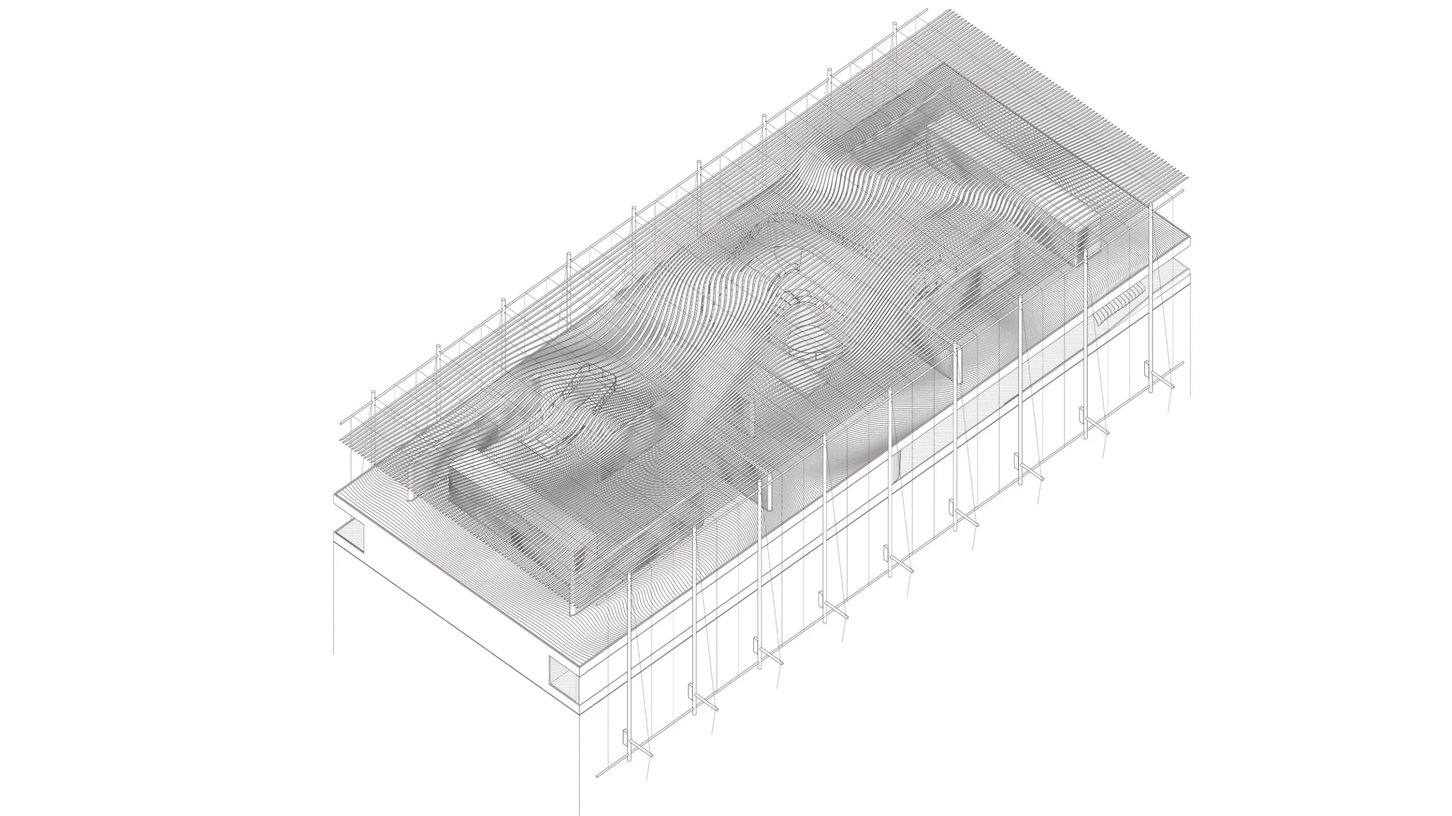
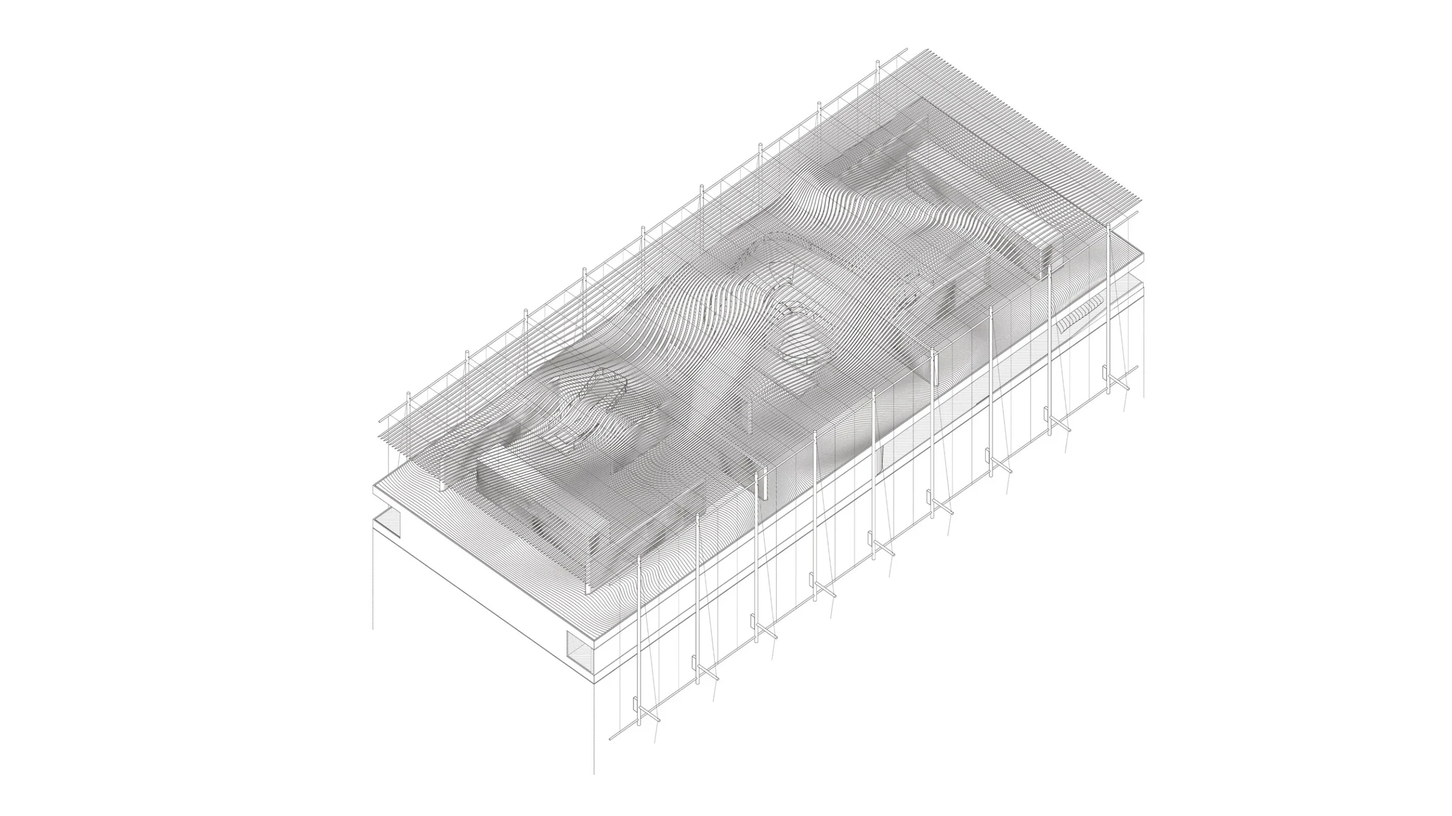
Project image fixes (scale+margin, clear white bands, drop Julius 12) and Latin placeholder text, year and medium
Claude-Session: https://claude.ai/code/session_01ANagsm52Wdi5eJDGapdboH

Changed region(s): [[0.2188, 0.0, 0.8125, 0.9333]]

diff --git a/work/julius/index.html b/work/julius/index.html
@@ -24,7 +24,7 @@
             <a href="/work/american-promise/" title="American Promise">Next &rsaquo;</a>
           </nav>
         </div>
-        <div class="slideshow" data-count="12">
+        <div class="slideshow" data-count="11">
           <div class="frame">
         <img class="slide is-on contain" src="/images/work/julius/01.webp" alt="Julius, image 1" decoding="async">
         <img class="slide contain" data-src="/images/work/julius/02.webp" alt="Julius, image 2" decoding="async">
@@ -37,16 +37,17 @@
         <img class="slide contain" data-src="/images/work/julius/09.webp" alt="Julius, image 9" decoding="async">
         <img class="slide contain" data-src="/images/work/julius/10.webp" alt="Julius, image 10" decoding="async">
         <img class="slide contain" data-src="/images/work/julius/11.webp" alt="Julius, image 11" decoding="async">
-        <img class="slide contain" data-src="/images/work/julius/12.webp" alt="Julius, image 12" decoding="async">
             <button class="slide-btn prev" type="button" aria-label="Previous image">&lsaquo;</button>
             <button class="slide-btn next" type="button" aria-label="Next image">&rsaquo;</button>
           </div>
-          <div class="slide-count"><span class="slide-i">1</span> / 12</div>
+          <div class="slide-count"><span class="slide-i">1</span> / 11</div>
         </div>
       </div>
       <div class="project-text">
-        <p class="meta">Year · Medium</p>
-      <p>Description coming soon.</p>
+        <p class="meta">2017 · Digital rendering</p>
+      <p>Phasellus viverra nulla ut metus varius laoreet. Quisque rutrum, aenean imperdiet. Etiam ultricies nisi vel augue, curabitur ullamcorper ultricies nisi. Nam eget dui, etiam rhoncus maecenas tempus tellus eget condimentum. Cum sociis natoque penatibus et magnis dis parturient montes, nascetur ridiculus mus, donec id elit non mi porta.</p>
+      <p>Donec vitae sapien ut libero venenatis faucibus. Nullam quis ante, etiam sit amet orci eget eros faucibus tincidunt. Duis leo, sed fringilla mauris sit amet nibh. Forma sequitur lumen, et lumen formam reddit. Vivamus sagittis lacus vel augue laoreet rutrum faucibus dolor auctor, sed diam eget risus varius blandit.</p>
+      <p>Donec sodales sagittis magna. Sed consequat, leo eget bibendum sodales, augue velit cursus nunc, quis gravida magna mi a libero. Praesent commodo cursus magna, vel scelerisque nisl consectetur et, donec sed odio dui.</p>
       </div>
     </div>
   </main>

diff --git a/work/the-conflicted-icon/index.html b/work/the-conflicted-icon/index.html
@@ -42,8 +42,10 @@
         </div>
       </div>
       <div class="project-text">
-        <p class="meta">Year · Medium</p>
-      <p>Description coming soon.</p>
+        <p class="meta">2015 · Digital rendering, line drawing</p>
+      <p>Curabitur at lacus ac velit ornare lobortis. Curabitur a felis in nunc fringilla tristique. Morbi mattis ullamcorper velit, phasellus gravida semper nisi. Nullam vel sem, pellentesque libero tortor, tincidunt et tincidunt eget. Fusce dapibus tellus ac cursus commodo, tortor mauris condimentum nibh, ut fermentum massa justo sit amet risus.</p>
+      <p>Pellentesque ut neque. Pellentesque habitant morbi tristique senectus et netus et malesuada fames ac turpis egestas. In ac felis quis tortor malesuada pretium, umbra turris super urbem cadit. Cum sociis natoque penatibus et magnis dis parturient montes, nascetur ridiculus mus, donec id elit non mi porta.</p>
+      <p>Vivamus quis mi. Phasellus a est, phasellus magna in hac habitasse platea dictumst. Curabitur nisi, quisque malesuada placerat nisl. Vivamus sagittis lacus vel augue laoreet rutrum faucibus dolor auctor, sed diam eget risus varius blandit.</p>
       </div>
     </div>
   </main>

diff --git a/work/american-promise/index.html b/work/american-promise/index.html
@@ -39,8 +39,9 @@
         </div>
       </div>
       <div class="project-text">
-        <p class="meta">Year · Medium</p>
-      <p>Description coming soon.</p>
+        <p class="meta">2016 · Photomontage and elevation drawings</p>
+      <p>Fusce vulputate eleifend sapien. Vestibulum purus quam, scelerisque ut, mollis sed, nonummy id, metus. Nullam accumsan lorem in dui. Cras ultricies mi eu turpis hendrerit fringilla, in ac dui quis mi consectetuer lacinia. Etiam porta sem malesuada magna mollis euismod, cras justo odio, dapibus ac facilisis in, egestas eget quam. Morbi leo risus, porta ac consectetur ac, vestibulum at eros, integer posuere erat a ante.</p>
+      <p>Nam pretium turpis et arcu. Duis arcu tortor, suscipit eget, imperdiet nec, imperdiet iaculis, ipsum. Sed aliquam ultrices mauris. Integer ante arcu, accumsan a, consectetuer eget, posuere ut, mauris. Praesent adipiscing, phasellus ullamcorper ipsum rutrum nunc. Nulla vitae elit libero, a pharetra augue, duis mollis est non commodo luctus nisi erat porttitor ligula. Aenean eu leo quam, pellentesque ornare sem lacinia quam venenatis vestibulum, sed posuere consectetur.</p>
       </div>
     </div>
   </main>

diff --git a/work/wedges/index.html b/work/wedges/index.html
@@ -43,8 +43,10 @@
         </div>
       </div>
       <div class="project-text">
-        <p class="meta">Year · Medium</p>
-      <p>Description coming soon.</p>
+        <p class="meta">2013 · Study models, photography</p>
+      <p>Integer tincidunt. Cras dapibus. Vivamus elementum semper nisi. Aenean vulputate eleifend tellus, aenean leo ligula, porttitor eu, consequat vitae, eleifend ac, enim. Aliquam lorem ante, dapibus in, viverra quis, feugiat a, tellus. Aenean eu leo quam, pellentesque ornare sem lacinia quam venenatis vestibulum, sed posuere consectetur.</p>
+      <p>Quisque rutrum. Aenean imperdiet. Etiam ultricies nisi vel augue. Curabitur ullamcorper ultricies nisi, nam eget dui. Etiam rhoncus, maecenas tempus, tellus eget condimentum rhoncus, sem quam semper libero. Fusce dapibus tellus ac cursus commodo, tortor mauris condimentum nibh, ut fermentum massa justo sit amet risus.</p>
+      <p>Sit amet adipiscing sem neque sed ipsum. Nam quam nunc, blandit vel, luctus pulvinar, hendrerit id, lorem. Cum sociis natoque penatibus et magnis dis parturient montes, nascetur ridiculus mus, donec id elit non mi porta.</p>
       </div>
     </div>
   </main>

diff --git a/work/parnell-residence/index.html b/work/parnell-residence/index.html
@@ -43,8 +43,10 @@
         </div>
       </div>
       <div class="project-text">
-        <p class="meta">Year · Medium</p>
-      <p>Description coming soon.</p>
+        <p class="meta">2019 · Graphite on paper, model</p>
+      <p>Ut enim ad minima veniam, quis nostrum exercitationem ullam corporis suscipit laboriosam, nisi ut aliquid ex ea commodi consequatur. Quis autem vel eum iure reprehenderit qui in ea voluptate velit esse. Vivamus sagittis lacus vel augue laoreet rutrum faucibus dolor auctor, sed diam eget risus varius blandit.</p>
+      <p>Quam nihil molestiae consequatur, vel illum qui dolorem eum fugiat quo voluptas nulla pariatur. At vero eos et accusamus et iusto odio dignissimos ducimus qui blanditiis praesentium voluptatum deleniti atque corrupti. Praesent commodo cursus magna, vel scelerisque nisl consectetur et, donec sed odio dui.</p>
+      <p>Similique sunt in culpa qui officia deserunt mollitia animi, id est laborum et dolorum fuga. Et harum quidem rerum facilis est et expedita distinctio. Etiam porta sem malesuada magna mollis euismod, cras justo odio, dapibus ac facilisis in, egestas eget quam.</p>
       </div>
     </div>
   </main>

diff --git a/work/julius-ii/index.html b/work/julius-ii/index.html
@@ -35,8 +35,9 @@
         </div>
       </div>
       <div class="project-text">
-        <p class="meta">Year · Medium</p>
-      <p>Description coming soon.</p>
+        <p class="meta">2023 · Digital rendering</p>
+      <p>Sed ut perspiciatis unde omnis iste natus error sit voluptatem accusantium doloremque laudantium, totam rem aperiam, eaque ipsa quae ab illo inventore veritatis et quasi architecto beatae vitae dicta sunt explicabo. Nulla vitae elit libero, a pharetra augue, duis mollis est non commodo luctus nisi erat porttitor ligula. Aenean eu leo quam, pellentesque ornare sem lacinia quam venenatis vestibulum, sed posuere consectetur.</p>
+      <p>Nemo enim ipsam voluptatem quia voluptas sit aspernatur aut odit aut fugit, sed quia consequuntur magni dolores eos qui ratione voluptatem sequi nesciunt. Neque porro quisquam est, qui dolorem ipsum quia dolor sit amet. Fusce dapibus tellus ac cursus commodo, tortor mauris condimentum nibh, ut fermentum massa justo sit amet risus. Cum sociis natoque penatibus et magnis dis parturient montes, nascetur ridiculus mus, donec id elit non mi porta.</p>
       </div>
     </div>
   </main>

diff --git a/work/talbot-road-residence/index.html b/work/talbot-road-residence/index.html
@@ -41,8 +41,9 @@
         </div>
       </div>
       <div class="project-text">
-        <p class="meta">Year · Medium</p>
-      <p>Description coming soon.</p>
+        <p class="meta">2018 · Ink and digital collage</p>
+      <p>Nam libero tempore, cum soluta nobis est eligendi optio cumque nihil impedit quo minus id quod maxime placeat facere possimus, omnis voluptas assumenda est, omnis dolor repellendus. Morbi leo risus, porta ac consectetur ac, vestibulum at eros, integer posuere erat a ante. Nulla vitae elit libero, a pharetra augue, duis mollis est non commodo luctus nisi erat porttitor ligula.</p>
+      <p>Temporibus autem quibusdam et aut officiis debitis aut rerum necessitatibus saepe eveniet ut et voluptates repudiandae sint et molestiae non recusandae. Itaque earum rerum hic tenetur a sapiente delectus, ut aut reiciendis voluptatibus maiores alias consequatur. Aenean eu leo quam, pellentesque ornare sem lacinia quam venenatis vestibulum, sed posuere consectetur. Fusce dapibus tellus ac cursus commodo, tortor mauris condimentum nibh, ut fermentum massa justo sit amet risus.</p>
       </div>
     </div>
   </main>

diff --git a/work/soma/index.html b/work/soma/index.html
@@ -38,8 +38,10 @@
         </div>
       </div>
       <div class="project-text">
-        <p class="meta">Year · Medium</p>
-      <p>Description coming soon.</p>
+        <p class="meta">2024 · Pigment print</p>
+      <p>Lorem ipsum dolor sit amet, consectetur adipiscing elit. Integer posuere erat a ante venenatis dapibus, posuere velit aliquet. Donec ullamcorper nulla non metus auctor fringilla, vitae elementum lacus vehicula. Praesent commodo cursus magna, vel scelerisque nisl consectetur et, donec sed odio dui.</p>
+      <p>Maecenas faucibus mollis interdum. Cras mattis consectetur purus sit amet fermentum. Nullam quis risus eget urna mollis ornare vel eu leo. Aenean lacinia bibendum nulla sed consectetur, et lucem in umbra quaerit. Etiam porta sem malesuada magna mollis euismod, cras justo odio, dapibus ac facilisis in, egestas eget quam.</p>
+      <p>Vestibulum id ligula porta felis euismod semper. Curabitur blandit tempus porttitor, sed posuere consectetur est at lobortis. Morbi leo risus, porta ac consectetur ac, vestibulum at eros, integer posuere erat a ante.</p>
       </div>
     </div>
   </main>

diff --git a/work/frankls-purposive-intention/index.html b/work/frankls-purposive-intention/index.html
@@ -42,8 +42,10 @@
         </div>
       </div>
       <div class="project-text">
-        <p class="meta">Year · Medium</p>
-      <p>Description coming soon.</p>
+        <p class="meta">2012 · Axonometric drawings, model</p>
+      <p>Maecenas nec odio et ante tincidunt tempus. Donec vitae sapien ut libero venenatis faucibus. Nullam quis ante. Etiam sit amet orci eget eros faucibus tincidunt. Duis leo. Sed fringilla mauris sit amet nibh. Vivamus sagittis lacus vel augue laoreet rutrum faucibus dolor auctor, sed diam eget risus varius blandit.</p>
+      <p>Donec sodales sagittis magna. Sed consequat, leo eget bibendum sodales, augue velit cursus nunc, quis gravida magna mi a libero. Fusce vulputate eleifend sapien, intentio quaerit spatium et spatium respondet. Praesent commodo cursus magna, vel scelerisque nisl consectetur et, donec sed odio dui.</p>
+      <p>Vestibulum purus quam, scelerisque ut, mollis sed, nonummy id, metus. Nullam accumsan lorem in dui. Etiam porta sem malesuada magna mollis euismod, cras justo odio, dapibus ac facilisis in, egestas eget quam.</p>
       </div>
     </div>
   </main>

diff --git a/work/march-of-the-silhouettes/index.html b/work/march-of-the-silhouettes/index.html
@@ -40,8 +40,9 @@
         </div>
       </div>
       <div class="project-text">
-        <p class="meta">Year · Medium</p>
-      <p>Description coming soon.</p>
+        <p class="meta">2014 · Charcoal and ink on paper</p>
+      <p>Aenean massa. Cum sociis natoque penatibus et magnis dis parturient montes, nascetur ridiculus mus. Donec quam felis, ultricies nec, pellentesque eu, pretium quis, sem. Nulla consequat massa quis enim. Praesent commodo cursus magna, vel scelerisque nisl consectetur et, donec sed odio dui. Etiam porta sem malesuada magna mollis euismod, cras justo odio, dapibus ac facilisis in, egestas eget quam.</p>
+      <p>Donec pede justo, fringilla vel, aliquet nec, vulputate eget, arcu. In enim justo, rhoncus ut, imperdiet a, venenatis vitae, justo. Nullam dictum felis eu pede mollis pretium. Figurae in ordine ambulant, nec umquam consistunt. Morbi leo risus, porta ac consectetur ac, vestibulum at eros, integer posuere erat a ante. Nulla vitae elit libero, a pharetra augue, duis mollis est non commodo luctus nisi erat porttitor ligula.</p>
       </div>
     </div>
   </main>

diff --git a/tools/build.py b/tools/build.py
@@ -14,17 +14,74 @@ YEAR = "2026"
 # Each project's images live in images/work/<slug>/ as 01.webp, 02.webp, ...
 # shown in that order on its page; the first one is the grid thumbnail.
 PROJECTS = [
-    {"slug": "soma", "title": "SOMA"},
-    {"slug": "julius-ii", "title": "Julius II"},
-    {"slug": "parnell-residence", "title": "Parnell Residence"},
-    {"slug": "talbot-road-residence", "title": "Talbot Road Residence"},
-    {"slug": "julius", "title": "Julius"},
-    {"slug": "american-promise", "title": "American Promise"},
-    {"slug": "the-conflicted-icon", "title": "The Conflicted Icon"},
-    {"slug": "march-of-the-silhouettes", "title": "March of the Silhouettes"},
-    {"slug": "wedges", "title": "Wedges"},
-    {"slug": "frankls-purposive-intention", "title": "Frankl\u2019s Purposive Intention"},
+    {"slug": "soma", "title": "SOMA",
+     "meta": "2024 · Pigment print",
+     "text": [
+      "Lorem ipsum dolor sit amet, consectetur adipiscing elit. Integer posuere erat a ante venenatis dapibus, posuere velit aliquet. Donec ullamcorper nulla non metus auctor fringilla, vitae elementum lacus vehicula. Praesent commodo cursus magna, vel scelerisque nisl consectetur et, donec sed odio dui.",
+      "Maecenas faucibus mollis interdum. Cras mattis consectetur purus sit amet fermentum. Nullam quis risus eget urna mollis ornare vel eu leo. Aenean lacinia bibendum nulla sed consectetur, et lucem in umbra quaerit. Etiam porta sem malesuada magna mollis euismod, cras justo odio, dapibus ac facilisis in, egestas eget quam.",
+      "Vestibulum id ligula porta felis euismod semper. Curabitur blandit tempus porttitor, sed posuere consectetur est at lobortis. Morbi leo risus, porta ac consectetur ac, vestibulum at eros, integer posuere erat a ante."
+     ]},
+    {"slug": "julius-ii", "title": "Julius II",
+     "meta": "2023 · Digital rendering",
+     "text": [
+      "Sed ut perspiciatis unde omnis iste natus error sit voluptatem accusantium doloremque laudantium, totam rem aperiam, eaque ipsa quae ab illo inventore veritatis et quasi architecto beatae vitae dicta sunt explicabo. Nulla vitae elit libero, a pharetra augue, duis mollis est non commodo luctus nisi erat porttitor ligula. Aenean eu leo quam, pellentesque ornare sem lacinia quam venenatis vestibulum, sed posuere consectetur.",
+      "Nemo enim ipsam voluptatem quia voluptas sit aspernatur aut odit aut fugit, sed quia consequuntur magni dolores eos qui ratione voluptatem sequi nesciunt. Neque porro quisquam est, qui dolorem ipsum quia dolor sit amet. Fusce dapibus tellus ac cursus commodo, tortor mauris condimentum nibh, ut fermentum massa justo sit amet risus. Cum sociis natoque penatibus et magnis dis parturient montes, nascetur ridiculus mus, donec id elit non mi porta."
+     ]},
+    {"slug": "parnell-residence", "title": "Parnell Residence",
+     "meta": "2019 · Graphite on paper, model",
+     "text": [
+      "Ut enim ad minima veniam, quis nostrum exercitationem ullam corporis suscipit laboriosam, nisi ut aliquid ex ea commodi consequatur. Quis autem vel eum iure reprehenderit qui in ea voluptate velit esse. Vivamus sagittis lacus vel augue laoreet rutrum faucibus dolor auctor, sed diam eget risus varius blandit.",
+      "Quam nihil molestiae consequatur, vel illum qui dolorem eum fugiat quo voluptas nulla pariatur. At vero eos et accusamus et iusto odio dignissimos ducimus qui blanditiis praesentium voluptatum deleniti atque corrupti. Praesent commodo cursus magna, vel scelerisque nisl consectetur et, donec sed odio dui.",
+      "Similique sunt in culpa qui officia deserunt mollitia animi, id est laborum et dolorum fuga. Et harum quidem rerum facilis est et expedita distinctio. Etiam porta sem malesuada magna mollis euismod, cras justo odio, dapibus ac facilisis in, egestas eget quam."
+     ]},
+    {"slug": "talbot-road-residence", "title": "Talbot Road Residence",
+     "meta": "2018 · Ink and digital collage",
+     "text": [
+      "Nam libero tempore, cum soluta nobis est eligendi optio cumque nihil impedit quo minus id quod maxime placeat facere possimus, omnis voluptas assumenda est, omnis dolor repellendus. Morbi leo risus, porta ac consectetur ac, vestibulum at eros, integer posuere erat a ante. Nulla vitae elit libero, a pharetra augue, duis mollis est non commodo luctus nisi erat porttitor ligula.",
+      "Temporibus autem quibusdam et aut officiis debitis aut rerum necessitatibus saepe eveniet ut et voluptates repudiandae sint et molestiae non recusandae. Itaque earum rerum hic tenetur a sapiente delectus, ut aut reiciendis voluptatibus maiores alias consequatur. Aenean eu leo quam, pellentesque ornare sem lacinia quam venenatis vestibulum, sed posuere consectetur. Fusce dapibus tellus ac cursus commodo, tortor mauris condimentum nibh, ut fermentum massa justo sit amet risus."
+     ]},
+    {"slug": "julius", "title": "Julius",
+     "meta": "2017 · Digital rendering",
+     "text": [
+      "Phasellus viverra nulla ut metus varius laoreet. Quisque rutrum, aenean imperdiet. Etiam ultricies nisi vel augue, curabitur ullamcorper ultricies nisi. Nam eget dui, etiam rhoncus maecenas tempus tellus eget condimentum. Cum sociis natoque penatibus et magnis dis parturient montes, nascetur ridiculus mus, donec id elit non mi porta.",
+      "Donec vitae sapien ut libero venenatis faucibus. Nullam quis ante, etiam sit amet orci eget eros faucibus tincidunt. Duis leo, sed fringilla mauris sit amet nibh. Forma sequitur lumen, et lumen formam reddit. Vivamus sagittis lacus vel augue laoreet rutrum faucibus dolor auctor, sed diam eget risus varius blandit.",
+      "Donec sodales sagittis magna. Sed consequat, leo eget bibendum sodales, augue velit cursus nunc, quis gravida magna mi a libero. Praesent commodo cursus magna, vel scelerisque nisl consectetur et, donec sed odio dui."
+     ]},
+    {"slug": "american-promise", "title": "American Promise",
+     "meta": "2016 · Photomontage and elevation drawings",
+     "text": [
+      "Fusce vulputate eleifend sapien. Vestibulum purus quam, scelerisque ut, mollis sed, nonummy id, metus. Nullam accumsan lorem in dui. Cras ultricies mi eu turpis hendrerit fringilla, in ac dui quis mi consectetuer lacinia. Etiam porta sem malesuada magna mollis euismod, cras justo odio, dapibus ac facilisis in, egestas eget quam. Morbi leo risus, porta ac consectetur ac, vestibulum at eros, integer posuere erat a ante.",
+      "Nam pretium turpis et arcu. Duis arcu tortor, suscipit eget, imperdiet nec, imperdiet iaculis, ipsum. Sed aliquam ultrices mauris. Integer ante arcu, accumsan a, consectetuer eget, posuere ut, mauris. Praesent adipiscing, phasellus ullamcorper ipsum rutrum nunc. Nulla vitae elit libero, a pharetra augue, duis mollis est non commodo luctus nisi erat porttitor ligula. Aenean eu leo quam, pellentesque ornare sem lacinia quam venenatis vestibulum, sed posuere consectetur."
+     ]},
+    {"slug": "the-conflicted-icon", "title": "The Conflicted Icon",
+     "meta": "2015 · Digital rendering, line drawing",
+     "text": [
+      "Curabitur at lacus ac velit ornare lobortis. Curabitur a felis in nunc fringilla tristique. Morbi mattis ullamcorper velit, phasellus gravida semper nisi. Nullam vel sem, pellentesque libero tortor, tincidunt et tincidunt eget. Fusce dapibus tellus ac cursus commodo, tortor mauris condimentum nibh, ut fermentum massa justo sit amet risus.",
+      "Pellentesque ut neque. Pellentesque habitant morbi tristique senectus et netus et malesuada fames ac turpis egestas. In ac felis quis tortor malesuada pretium, umbra turris super urbem cadit. Cum sociis natoque penatibus et magnis dis parturient montes, nascetur ridiculus mus, donec id elit non mi porta.",
+      "Vivamus quis mi. Phasellus a est, phasellus magna in hac habitasse platea dictumst. Curabitur nisi, quisque malesuada placerat nisl. Vivamus sagittis lacus vel augue laoreet rutrum faucibus dolor auctor, sed diam eget risus varius blandit."
+     ]},
+    {"slug": "march-of-the-silhouettes", "title": "March of the Silhouettes",
+     "meta": "2014 · Charcoal and ink on paper",
+     "text": [
+      "Aenean massa. Cum sociis natoque penatibus et magnis dis parturient montes, nascetur ridiculus mus. Donec quam felis, ultricies nec, pellentesque eu, pretium quis, sem. Nulla consequat massa quis enim. Praesent commodo cursus magna, vel scelerisque nisl consectetur et, donec sed odio dui. Etiam porta sem malesuada magna mollis euismod, cras justo odio, dapibus ac facilisis in, egestas eget quam.",
+      "Donec pede justo, fringilla vel, aliquet nec, vulputate eget, arcu. In enim justo, rhoncus ut, imperdiet a, venenatis vitae, justo. Nullam dictum felis eu pede mollis pretium. Figurae in ordine ambulant, nec umquam consistunt. Morbi leo risus, porta ac consectetur ac, vestibulum at eros, integer posuere erat a ante. Nulla vitae elit libero, a pharetra augue, duis mollis est non commodo luctus nisi erat porttitor ligula."
+     ]},
+    {"slug": "wedges", "title": "Wedges",
+     "meta": "2013 · Study models, photography",
+     "text": [
+      "Integer tincidunt. Cras dapibus. Vivamus elementum semper nisi. Aenean vulputate eleifend tellus, aenean leo ligula, porttitor eu, consequat vitae, eleifend ac, enim. Aliquam lorem ante, dapibus in, viverra quis, feugiat a, tellus. Aenean eu leo quam, pellentesque ornare sem lacinia quam venenatis vestibulum, sed posuere consectetur.",
+      "Quisque rutrum. Aenean imperdiet. Etiam ultricies nisi vel augue. Curabitur ullamcorper ultricies nisi, nam eget dui. Etiam rhoncus, maecenas tempus, tellus eget condimentum rhoncus, sem quam semper libero. Fusce dapibus tellus ac cursus commodo, tortor mauris condimentum nibh, ut fermentum massa justo sit amet risus.",
+      "Sit amet adipiscing sem neque sed ipsum. Nam quam nunc, blandit vel, luctus pulvinar, hendrerit id, lorem. Cum sociis natoque penatibus et magnis dis parturient montes, nascetur ridiculus mus, donec id elit non mi porta."
+     ]},
+    {"slug": "frankls-purposive-intention", "title": "Frankl\u2019s Purposive Intention",
+     "meta": "2012 · Axonometric drawings, model",
+     "text": [
+      "Maecenas nec odio et ante tincidunt tempus. Donec vitae sapien ut libero venenatis faucibus. Nullam quis ante. Etiam sit amet orci eget eros faucibus tincidunt. Duis leo. Sed fringilla mauris sit amet nibh. Vivamus sagittis lacus vel augue laoreet rutrum faucibus dolor auctor, sed diam eget risus varius blandit.",
+      "Donec sodales sagittis magna. Sed consequat, leo eget bibendum sodales, augue velit cursus nunc, quis gravida magna mi a libero. Fusce vulputate eleifend sapien, intentio quaerit spatium et spatium respondet. Praesent commodo cursus magna, vel scelerisque nisl consectetur et, donec sed odio dui.",
+      "Vestibulum purus quam, scelerisque ut, mollis sed, nonummy id, metus. Nullam accumsan lorem in dui. Etiam porta sem malesuada magna mollis euismod, cras justo odio, dapibus ac facilisis in, egestas eget quam."
+     ]},
 ]
+# PLACEHOLDER Latin text, years and mediums (2026-11-07) until Juan sends the real ones.
 # Optional text per project: add "meta" (e.g. "2024 · Pigment print") and
 # "text" (a list of paragraphs) to any entry above. Placeholders show until then.
 # How each image is trimmed, fitted and cropped: tools/image_rules.json, applied by tools/images.py.

diff --git a/tools/images.py b/tools/images.py
@@ -14,6 +14,13 @@ Options
          "cover" fill the frame, cropping the edges
          "contain" show the whole image inside the frame
   focus  which part stays in view when cropped, "x% y%" (50% 50% = centre)
+  skip   true   leave this image out of the project page
+  scale  0.9    shrink the image to 90% and fill the freed edge with its own
+                background colour, so the canvas keeps its size
+  fill   "auto" (sample the image's edge colour) or a colour like "#ffffff"
+  clear  "lr" / "tb" / "all"  make the solid white bands on those sides
+                see-through, so the page colour shows instead (Light, Dark,
+                White, Black). Size and zoom stay exactly as before.
 
 Run:  python3 tools/images.py   then   python3 tools/build.py
 """
@@ -39,28 +46,83 @@ def white_margins(im):
     return (int(l), int(t), int(w - r), int(h - b))
 
 
+def edge_colour(im):
+    a = np.asarray(im.convert("RGB"))
+    e = np.concatenate([a[0], a[-1], a[:, 0], a[:, -1]])
+    return tuple(int(v) for v in np.median(e, 0))
+
+
+def scale_down(im, k, fill):
+    w, h = im.size
+    colour = edge_colour(im) if fill in (None, "auto") else fill
+    small = im.resize((round(w * k), round(h * k)), Image.LANCZOS)
+    out = Image.new("RGB", (w, h), colour)
+    out.paste(small, ((w - small.width) // 2, (h - small.height) // 2))
+    return out
+
+
+def clear_bands(im, sides):
+    """Solid white bands at the chosen edges become transparent."""
+    a = np.asarray(im.convert("RGB"))
+    white = a.min(2) >= 246
+    alpha = np.full(white.shape, 255, np.uint8)
+
+    def run(frac):
+        n = 0
+        while n < len(frac) and frac[n] > 0.995:
+            n += 1
+        return n
+    if sides in ("lr", "all"):
+        c = white.mean(0)
+        l, r = run(c), run(c[::-1])
+        alpha[:, :l] = 0
+        if r:
+            alpha[:, -r:] = 0
+    if sides in ("tb", "all"):
+        rw = white.mean(1)
+        t, b = run(rw), run(rw[::-1])
+        alpha[:t] = 0
+        if b:
+            alpha[-b:] = 0
+    out = im.convert("RGBA")
+    out.putalpha(Image.fromarray(alpha))
+    return out
+
+
 def main():
     display = {}
+    made = set()
     for src in sorted(SRC.glob("*/[0-9]*.webp")):
         key = f"{src.parent.name}/{src.stem}"
         rule = {**RULES["default"], **RULES.get(key, {})}
+        if rule.get("skip"):
+            continue
         im = Image.open(src).convert("RGB")
         box = white_margins(im) if rule.get("trim") == "auto" else None
         if box:
             im = im.crop(box)
+        changed = bool(box)
+        if rule.get("scale"):
+            im, changed = scale_down(im, rule["scale"], rule.get("fill")), True
+        if rule.get("clear"):
+            im, changed = clear_bands(im, rule["clear"]), True
         fit = rule.get("fit", "auto")
         if fit == "auto":
             fit = "contain" if box else "cover"
         dst = OUT / src.parent.name / src.name
         dst.parent.mkdir(parents=True, exist_ok=True)
-        if box:
-            im.save(dst, "WEBP", quality=88, method=6)
+        made.add(dst)
+        if changed:
+            im.save(dst, "WEBP", quality=90, method=6)
         else:
             shutil.copyfile(src, dst)   # untouched: an exact copy of the original
         entry = {"fit": fit}
         if rule.get("focus"):
             entry["focus"] = rule["focus"]
         display[f"{src.parent.name}/{src.name}"] = entry
+    for old in OUT.glob("*/[0-9]*.webp"):   # images that were skipped or removed
+        if old not in made:
+            old.unlink()
     (OUT / "display.json").write_text(json.dumps(display, indent=1))
     print("processed", len(display), "images")
 
